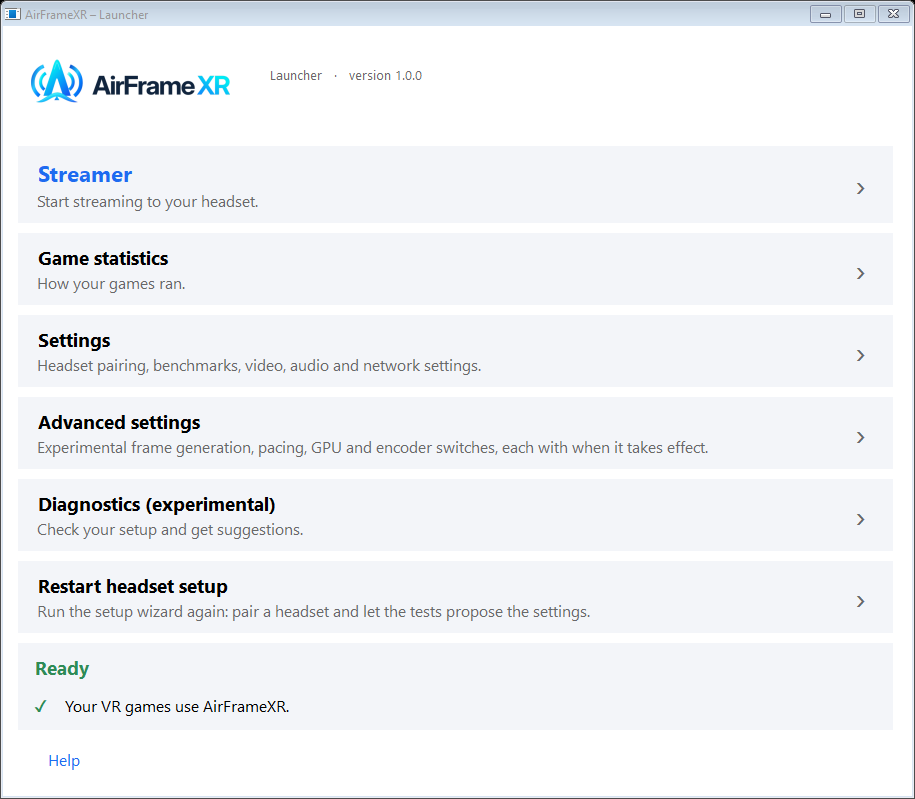
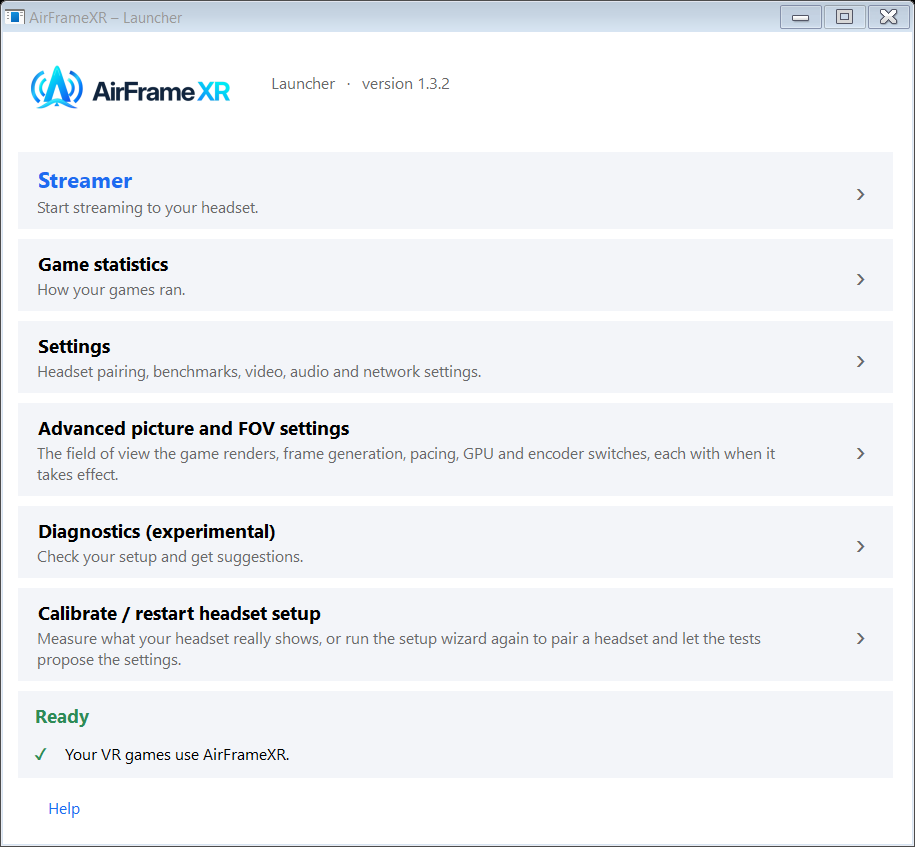
README: the eye calibration wizard with a screenshot of the result (rays, window, rectangle); the result page draws them (FovPlot); launcher picture refreshed; harness case calibrate-result

diff --git a/tools/gui/Calibrate.cs b/tools/gui/Calibrate.cs
@@ -12,12 +12,45 @@ using System.Windows.Forms;
 
 namespace AirFrameXR
 {
+    /// The measurement as a picture, in tangent space with the nose on the left: a grey ray from the centre for every direction, a dot where the square vanished on it, the outline of
+    /// what the headset shows, and the rectangle the games are told.
+    public class FovPlot : Control
+    {
+        readonly FovFitResult r;
+        public FovPlot(FovFitResult result) { r = result; DoubleBuffered = true; BackColor = Color.White; Size = new Size(520, 340); AccessibleName = "Your visible window with the measured rays"; }
+        protected override void OnPaint(PaintEventArgs e)
+        {
+            base.OnPaint(e);
+            var g = e.Graphics; g.SmoothingMode = System.Drawing.Drawing2D.SmoothingMode.AntiAlias;
+            float x0 = Math.Min(-(float)r.Rectangle.Inner, (float)r.Window.Min(p => p.X)), x1 = Math.Max((float)r.Rectangle.Outer, (float)r.Window.Max(p => p.X));
+            float y0 = Math.Min(-(float)r.Rectangle.Lower, (float)r.Window.Min(p => p.Y)), y1 = Math.Max((float)r.Rectangle.Upper, (float)r.Window.Max(p => p.Y));
+            float pad = 0.06f * Math.Max(x1 - x0, y1 - y0); x0 -= pad; x1 += pad; y0 -= pad; y1 += pad;
+            float k = Math.Min((Width - 2) / (x1 - x0), (Height - 2) / (y1 - y0));
+            float ox = (Width - k * (x1 - x0)) / 2, oy = (Height - k * (y1 - y0)) / 2;
+            Func<float, float, PointF> map = (x, y) => new PointF(ox + (x - x0) * k, oy + (y1 - y) * k);
+            var c = map(0, 0);
+            using (var axis = new Pen(Color.Gainsboro)) { g.DrawLine(axis, map(x0, 0), map(x1, 0)); g.DrawLine(axis, map(0, y0), map(0, y1)); }
+            using (var ray = new Pen(Color.Silver, 1f))
+            using (var dot = new SolidBrush(Color.DimGray))
+                foreach (var w in r.Window) { var q = map((float)w.X, (float)w.Y); g.DrawLine(ray, c, q); g.FillEllipse(dot, q.X - 3, q.Y - 3, 6, 6); }
+            using (var outline = new Pen(Color.DimGray, 1.5f)) g.DrawPolygon(outline, r.Window.Select(w => map((float)w.X, (float)w.Y)).ToArray());
+            var a = map(-(float)r.Rectangle.Inner, (float)r.Rectangle.Upper); var b = map((float)r.Rectangle.Outer, -(float)r.Rectangle.Lower);
+            using (var rect = new Pen(Ui.Accent, 2.5f)) g.DrawRectangle(rect, a.X, a.Y, b.X - a.X, b.Y - a.Y);
+            using (var f = new Font(Font.FontFamily, 8.5f))
+            {
+                g.DrawString("nose", f, Brushes.DimGray, 4, c.Y + 2); g.DrawString("outer", f, Brushes.DimGray, Width - 38, c.Y + 2);
+                g.DrawString("up", f, Brushes.DimGray, c.X + 4, 2); g.DrawString("down", f, Brushes.DimGray, c.X + 4, Height - 16);
+            }
+        }
+    }
+
     public class CalibrateForm : DpiForm
     {
         const int Directions = 24, Eyes = 2, StepsPerPass = Directions * Eyes;
         const string Wearer = "my";
         static string Probe => Path.Combine(Paths.Dir, "bench", "xr_probe.exe");
-        static string RunDir => Path.Combine(Paths.Config, "calibration");
+        string RunDir => demoDir ?? Path.Combine(Paths.Config, "calibration");
+        readonly string demoDir;   // the UI harness: synthetic sweeps in a temp folder instead of config\\calibration
 
         readonly AppSettings settings = new AppSettings();
         readonly string headset, headsetSlug;
@@ -29,8 +62,10 @@ namespace AirFrameXR
         Label progressText; ProgressBar bar;
         FovFitResult result;
 
-        public CalibrateForm()
+        public CalibrateForm(string demoFolder = null)
         {
+            demoDir = demoFolder;
+            System.Threading.Thread.CurrentThread.CurrentCulture = CultureInfo.InvariantCulture;   // numbers as in the docs and the other tools
             Text = "AirFrameXR – Calibrate the field of view";
             Icon = Ui.AppIcon();
             AutoScaleDimensions = new SizeF(96F, 96F);
@@ -42,12 +77,32 @@ namespace AirFrameXR
             MinimumSize = new Size(600, 480);
             Ui.FitToWorkArea(this);
             Controls.Add(page);
-            headset = settings.HeadsetName;
+            headset = demoFolder != null ? "Apple Headset" : settings.HeadsetName;
             headsetSlug = FovFit.Slug(headset).Replace('_', '-');
             poll.Tick += (s, e) => Poll();
             FormClosing += (s, e) => StopProbe();
-            ShowIntro();
+            if (demoFolder == null) ShowIntro();
             Ui.ScreenshotWhenShown(this, 1500);
+        }
+
+        /// The UI harness: a made-up window (an ellipse a little wider outward than toward the nose, both passes) and the result page for it.
+        public void ApplyDemoResult()
+        {
+            Directory.CreateDirectory(RunDir);
+            var rnd = new Random(7);
+            var sb = new System.Text.StringBuilder("eye,fit,gaze,theta_deg,ecc_deg,tan_r,x_out,y,timeout,latency_ms,deg_s,display_time_ns\n");
+            foreach (var gz in new[] { "following", "fixed" })
+                for (int eye = 0; eye < 2; eye++)
+                    for (int i = 0; i < Directions; i++)
+                    {
+                        double th = i * 15, a = th * Math.PI / 180;
+                        double reach = Math.Sqrt(1 / (Math.Pow(Math.Cos(a) / (Math.Cos(a) >= 0 ? 0.95 : 0.72), 2) + Math.Pow(Math.Sin(a) / (Math.Sin(a) >= 0 ? 0.74 : 0.66), 2)));
+                        double tan = reach * (gz == "following" ? 0.93 : 1.0) * (1 + 0.03 * (rnd.NextDouble() - 0.5));
+                        double ecc = Math.Atan(tan) * 180 / Math.PI;
+                        sb.AppendLine(string.Format(CultureInfo.InvariantCulture, "{0},demoheadset_1,{1},{2:0.0},{3:0.000},{4:0.00000},{5:0.00000},{6:0.00000},0,50,2.00,0", eye, gz, th, ecc, tan, tan * Math.Cos(a), tan * Math.Sin(a)));
+                    }
+            File.WriteAllText(Path.Combine(RunDir, $"fov_sweep_{Wearer}_{headsetSlug}_run1.csv"), sb.ToString());
+            ShowResult(99);
         }
 
         // ---------------------------------------------------------------------------------------------------------- pages
@@ -190,16 +245,18 @@ namespace AirFrameXR
                 return;
             }
             var t = result.Rectangle;
+            page.Controls.Add(new FovPlot(result) { Margin = new Padding(3, 6, 3, 2) });
+            Text_("Grey: the 24 directions the square travelled, with a dot where it vanished for you; the dark outline is what your headset shows; blue is the field of view the games are told.", true);
             Text_($"Outer {t.Outer:0.00}   Inner {t.Inner:0.00}   Upper {t.Upper:0.00}   Lower {t.Lower:0.00}   (tangents; the angles are {Math.Atan(t.Outer) * 180 / Math.PI:0.#} / {Math.Atan(t.Inner) * 180 / Math.PI:0.#} / {Math.Atan(t.Upper) * 180 / Math.PI:0.#} / {Math.Atan(t.Lower) * 180 / Math.PI:0.#} degrees)");
             Text_($"This rectangle covers {100 * result.Coverage:0.0} % of what you saw, from {result.Runs} run(s). It is {100 * result.SavedVsBox:0.0} % smaller than the box around your whole window, so the game renders that much less.");
             foreach (var w in result.Warnings) { var l = Text_("Note: " + w); l.ForeColor = Color.DarkGoldenrod; }
-            var cov = new ComboBox { DropDownStyle = ComboBoxStyle.DropDownList, Width = 330, Margin = new Padding(3, 8, 3, 3), AccessibleName = "Coverage" };
+            var cov = new ComboBox { DropDownStyle = ComboBoxStyle.DropDownList, Width = 470, Margin = new Padding(3, 8, 3, 3), AccessibleName = "Coverage" };
             cov.Items.AddRange(new object[] { "99 % of my window (recommended: black only in the far corners)", "100 % of my window (no black, a little more to render)", "97 % of my window (fewer pixels, more black in corners)" });
             cov.SelectedIndex = coverage >= 99.5 ? 1 : coverage >= 98.5 ? 0 : 2;
             cov.SelectedIndexChanged += (s, e) => ShowResult(new[] { 99.0, 100.0, 97.0 }[cov.SelectedIndex]);
             page.Controls.Add(cov);
             Text_("Applies at the next game start. If a game shows black at an edge, choose 100 % or run the test again; Advanced picture and FOV settings shows and changes the values.", true);
-            Buttons(Btn("Use this field of view", Apply), Btn("Save a copy...", SaveCopy), Btn("Run another pass of tests", ShowIntro), Btn("Close", Close));
+            Buttons(Btn("Use this field of view", Apply), Btn("Save a copy...", SaveCopy), Btn("Measure again", ShowIntro), Btn("Close", Close));
         }
 
         void Apply()

diff --git a/tools/gui/UiTest.cs b/tools/gui/UiTest.cs
@@ -125,6 +125,7 @@ namespace AirFrameXR
             yield return new Case { Name = "analyze-insufficient", Make = () => new AnalyzeForm(), Prepare = f => ((AnalyzeForm)f).ApplyDemoState("insufficient") };
             yield return new Case { Name = "analyze-problem-tall", Make = () => new AnalyzeForm(), Prepare = f => { ((AnalyzeForm)f).ApplyDemoState("problem"); f.Height = Ui.WorkArea(f).Height - 40; } };   // the README picture: the window as tall as the screen allows, so the table and the charts show together
             yield return new Case { Name = "analyze-long", Make = () => new AnalyzeForm(), Prepare = f => ((AnalyzeForm)f).ApplyDemoState("long") };
+            yield return new Case { Name = "calibrate-result", Make = () => new CalibrateForm(Path.Combine(Path.GetTempPath(), "airframexr_calibrate_demo_" + Guid.NewGuid().ToString("N"))), Prepare = f => ((CalibrateForm)f).ApplyDemoResult() };   // the README picture: the rays, the window, the rectangle
             yield return new Case { Name = "performance", Make = () => new PerformanceForm("Cyberpunk2077.exe") };
             yield return new Case { Name = "performance-pipeline", Make = () => new PerformanceForm("LiesOfP-Win64-Shipping.exe") };   // a record whose pipeline block says split encoding did not engage
             for (int p = 0; p <= 6; p++)

diff --git a/tools/gui/FovFit.cs b/tools/gui/FovFit.cs
@@ -22,6 +22,8 @@ namespace AirFrameXR
     public class FovFitResult
     {
         public Rect Rectangle, Box;
+        /// the visible window: where the dot vanished on each direction, in tangent space (x outward from the nose, y up), in direction order
+        public List<(double X, double Y)> Window = new List<(double X, double Y)>();
         public double Coverage;                 // 0..1, exact share of the window the rectangle covers
         public int Runs, Steps;
         public string Author, Headset, FileName;
@@ -83,6 +85,7 @@ namespace AirFrameXR
             if (!Check(rows, files.Count, r.Warnings, out problem)) return null;
 
             var window = Outline(rows);
+            r.Window = window.Select(w => (w.X, w.Y)).ToList();
             r.Box = BoundingBox(window);
             r.Rectangle = SmallestRect(window, coveragePct / 100);
             r.Coverage = Clipped(window, r.Rectangle) / Area(window);

diff --git a/harness/uibuild.py b/harness/uibuild.py
@@ -6,7 +6,7 @@ sys.path.insert(0, str(Path(__file__).parent))
 import lib
 
 ROOT = lib.ROOT
-SOURCES = "Common.cs PipelineModel.cs Advanced.cs Configure.cs SettingsPanel.cs Reference.cs TestRunner.cs Wizard.cs Profiles.cs Verdict.cs Advice.cs FindHeadset.cs AudioRoute.cs AirFrameXR.cs Launcher.cs Performance.cs UiTest.cs BlackBoxBrand.cs BlackBoxChart.cs BenchRecorder.cs PerfAnalyze.cs PerfCore.cs PerfReport.cs PerfResources.cs"
+SOURCES = "Common.cs PipelineModel.cs Advanced.cs Configure.cs SettingsPanel.cs Reference.cs TestRunner.cs Wizard.cs Profiles.cs Verdict.cs Advice.cs FindHeadset.cs AudioRoute.cs AirFrameXR.cs Launcher.cs Performance.cs FovFit.cs Calibrate.cs UiTest.cs BlackBoxBrand.cs BlackBoxChart.cs BenchRecorder.cs PerfAnalyze.cs PerfCore.cs PerfReport.cs PerfResources.cs"
 
 
 def build(rid):

diff --git a/harness/readme_screens.py b/harness/readme_screens.py
@@ -9,7 +9,7 @@ from pathlib import Path
 ROOT = Path(__file__).resolve().parent.parent
 SHOTS = {   # harness case -> README image (the size the picture is taken at is the second item when it is not 1080p / 125 %)
     "launcher-ready": "ui_launcher", "streamer-clean": "ui_streamer", "performance": "ui_performance", "wizard-page3": "ui_wizard",
-    "suggestions": "ui_suggestions", "firewall-rules": "ui_firewall",
+    "suggestions": "ui_suggestions", "firewall-rules": "ui_firewall", "calibrate-result": "ui_calibrate",
     "rec-recording": "ui_blackbox_recorder",                              # the Black Box (docs/BENCH_UI.md)
     "analyze-problem-tall": ("ui_blackbox_analyzer", "2560x1440@100"),    # as tall as the screen allows: the resource table and the charts together
 }

diff --git a/README.md b/README.md
@@ -41,7 +41,7 @@ AirFrameXR is built for people with a wireless headset and an NVIDIA GPU who wan
 - **One runtime, minimal copies.** Composition, frame pacing and encoding run in one pipeline that passes frames in shared GPU memory, with no extra copies between programs.
 - **A proven network layer.** [ALVR](https://github.com/alvr-org/ALVR) provides the networking, encoding and decoding that a large community has stabilised, and the headset only needs the ALVR app. **Meta Quest** and **Apple Vision Pro** are the tested headsets.
 - **Made for NVIDIA.** NVENC HEVC 10-bit encoding, and **split encoding** that uses all of the GPU's NVENC units instead of one (the RTX 5090 has three), tuned with the pacing and the network.
-- **The game renders only what you see.** Built-in field-of-view restriction and calibration tell the game the field of view the headset actually shows: about 30 % fewer pixels rendered on the Vision Pro profile (computed from the field of view, not yet a measured frame-time gain). See [How FOV restriction works](#how-fov-restriction-works).
+- **The game renders only what you see.** Built-in field-of-view restriction and your own eye calibration tell the game the field of view the headset actually shows: about 30 % fewer pixels rendered on the Vision Pro profile (computed from the field of view, not yet a measured frame-time gain). See [How FOV restriction works](#how-fov-restriction-works).
 - **Frame generation in the pipeline.** Optional GPU optical-flow interpolation with an edge-aware synthesis (the edge technique comes from [VectorXR](https://github.com/DienerTech/vectorxr), re-implemented) can improve displayed smoothness when a game cannot sustain the headset's refresh rate. It is experimental, off by default and **can add interpolation latency**; it is not a free FPS boost.
 - **Measure per game.** Game statistics record fps, latency, network and GPU for each game you play.
 - **Less guesswork.** The setup wizard reads what your headset supports, offers a community profile (shareable as a JSON file) and tests the result on your PC and network.
@@ -118,7 +118,7 @@ Regenerate them with `python3 harness/readme_screens.py`.
 
 **One front door.** Double-click `AirFrameXR.exe`: a card per tool, the OpenXR runtime switch (it switches back, too), and reviews of the OpenXR layers and the firewall rules.
 
-<p align="center"><img src="docs/images/ui_launcher.png" width="520" alt="The launcher: Streamer, Logs and performance, Diagnose, Setup wizard, and the OpenXR runtime row"></p>
+<p align="center"><img src="docs/images/ui_launcher.png" width="520" alt="The launcher: Streamer, Game statistics, Settings, Advanced picture and FOV settings, Diagnostics, Calibrate / restart headset setup, and the status card"></p>
 
 **The streamer.** Live numbers as tiles (the game's fps, what is streamed, what the headset shows, bitrate, latency split, loss), display settings, frame generation with its rate, Recenter, and the optional desktop mirror.
 
@@ -135,6 +135,12 @@ Regenerate them with `python3 harness/readme_screens.py`.
 **Setup, once.** The wizard reads what the headset supports, offers a community profile, a pre-filled manual setup or your existing ALVR settings, then tests the result.
 
 <p align="center"><img src="docs/images/ui_wizard.png" width="640" alt="The setup wizard: choose a setup"></p>
+
+**Calibrate your own field of view.** *Calibrate / restart headset setup* offers the **Eye calibration wizard (30 min)**: a small square drifts outward along one of 24 directions per eye and you click when it is gone, once with your eyes following it and once with them fixed. The result shows every ray, the point where it vanished for you, the outline of what your headset shows (dark) and the field of view the games get (blue), the smallest rectangle that covers 99 % of it. **Use this field of view** applies it from the next game start; **Save a copy...** writes a profile file you can share and import with *Advanced picture and FOV settings* > *Import a calibration file...* ([docs/FOV_CALIBRATION.md](docs/FOV_CALIBRATION.md)).
+
+<p align="center"><img src="docs/images/ui_calibrate.png" width="640" alt="The eye calibration result: 24 grey rays from the centre with a dot where the square vanished on each, the dark outline of the visible window and the blue rectangle the games are told"></p>
+
+*The picture shows made-up demo data from the UI harness (an invented window, not a person's measurement). The calibration itself has not been run on a headset yet.*
 
 **Firewall rules.** Finds the rule for this folder's exact `alvr_host.exe`, offers one only if none is in place, and lists the leftovers Windows keeps (stale, duplicate, blocking) with one click to remove them.
 
@@ -207,8 +213,8 @@ the same code built with the telemetry on, so a diagnosis never changes the numb
   A **Recommended** tick sets the rate from the game's recorded runs on the connected headset, and **Recenter** (a button and a key, **End** by default; also sent at every game start) turns the tracking space to your
   current forward. See [docs/FRAME_GENERATION.md](docs/FRAME_GENERATION.md), [docs/FRAME_GENERATION_UNCAPPED.md](docs/FRAME_GENERATION_UNCAPPED.md), and
   [docs/PERMANENT_RECORD.md](docs/PERMANENT_RECORD.md) (archive) for why DLSS motion vectors were tried and removed.
-- **A field of view for the game, set from the streamer**, and a render quality slider: [how it works](#how-fov-restriction-works).
-- **The windows** (above): one launcher, the streamer, Logs and performance, Diagnose with suggestions, the wizard, the firewall and OpenXR-layer reviews. They follow the display
+- **A field of view for the game, set from the streamer**, a render quality slider, and an **eye calibration wizard** that measures your own visible window and fills the field of view for you: [how it works](#how-fov-restriction-works).
+- **The windows** (above): one launcher, the streamer, Logs and performance, Diagnose with suggestions, the wizard, the eye calibration, the firewall and OpenXR-layer reviews. They follow the display
   (1080p laptops to 4K, 100-200 % scale), checked by the UI harness below.
 - **Desktop mirror** (optional): see above; it works with either hand.
 - **Advanced picture and FOV settings**: the switches that change the picture the game renders and the timing, for people who measure. Each one says when it takes effect and what we
@@ -298,6 +304,8 @@ The game's picture is filtered down to the stream's pixels by composition, so th
 carries. The cost is the game's GPU time and video memory, roughly linear in pixels for a GPU-bound game; 100 % costs what the game cost with no restriction. About 2 samples per pixel
 is already near where supersampling stops paying much, so there is no reason to go higher. Which position is right depends on how much headroom the game has: raise it while the game
 holds its frame rate. Off by default (0 %), and with no restriction nothing differs from 1.0.
+
+**Calibrate it yourself.** Launcher > *Calibrate / restart headset setup* > *Eye calibration wizard (30 min)* measures your own window instead of using the profile's (two passes, 48 clicks each, the headset on, the streamer open) and applies the smallest rectangle that covers 99 % of it, or 100 % or 97 % if you choose; the maths and the file format are in [docs/FOV_CALIBRATION.md](docs/FOV_CALIBRATION.md) and [docs/HMD_PROFILES.md](docs/HMD_PROFILES.md). It is new in 1.3.2 and has been checked on the PC only, not yet on a headset.
 
 **What is not known yet.** The visible window is one person's left eye at one fit of the headset; it moves with the seal, glasses inserts and IPD, so start from the recommended row
 (visible + 3 degrees) and check the corners for black with `fovgrid.exe` ([docs/FOV_GRID.md](docs/FOV_GRID.md)). The Vision Pro profile carries the measured window and the suggested render quality (25 %), and the Advanced window offers them with one button, never by itself ([docs/HMD_PROFILES.md](docs/HMD_PROFILES.md)). The feature is covered by lab scenarios (the app gets exactly the tangents

diff --git a/docs/progress.md b/docs/progress.md
@@ -35,7 +35,7 @@ Legend: **source-verified** (read only) | **built** (compiles) | **tested-pass**
 
 - Black Box 1.3.1 (2026-10-31): first real recording (5090, ACBlackFlag, frame generation) fixed the report (attribution under frame generation, the limiter reading, engine sums), added the resource table in bottleneck order, a time series per category, the `blackbox\` layout with `blackbox_perf.exe` and a reversible OpenXR runtime switch. **tested-pass** in the lab (13 report fixtures, probe, recorder file handling, GUI matrix 405 renders 0 FAIL). **Not tested**: the runtime switch's permission prompt on a machine, F8 in real games, the beep, the Deep trace, a recording through the new panel.
 
-- Own field-of-view calibration (2026-11-02, uncommitted): launcher card **Calibrate / restart headset setup** with a choice step, **Eye calibration wizard (30 min)** (`calibrate.exe`) or **Setup wizard**, the shared fit `tools/gui/FovFit.cs`, the bundle's console `fov_profile.exe`, calibration-only profiles (no `stream`/`network`, skipped by the wizard's matching) and **Import a calibration file...** in the Advanced window. **built** (`tools/wsl/check_gui.sh`: calibrate.exe and fov_profile.exe compile). **tested-pass** on the PC: `FovFit` on the two Kevin sweeps gives 1.00 / 0.89 / 0.92 / 0.82 (the Python script: 1.00 / 0.89 / 0.91 / 0.82), and `HmdProfiles.Parse` reads its output as a stream-less profile with the same tangents. **Not tested**: the calibrate window itself (probe launch, CSV polling, pass 2, apply), the Advanced import button, the wizard import, the launcher card, packaging (`build.ps1 gui package`), any headset. Found and fixed on the way: the shipped `profiles/apple-vision-pro.profile.json` had its `variants` inside `fov` and no `network`, so `HmdProfiles.Parse` skipped it and the Vision Pro profile never loaded; moved into `network` (**tested-pass**: the shipped file now parses as a stream profile, and `fov_profile_check.py` first check passes). **Not tested**: what the wizard now proposes with it on a Vision Pro (its stream settings and 22 ALVR overrides now apply).
+- Own field-of-view calibration (2026-11-02, uncommitted): launcher card **Calibrate / restart headset setup** with a choice step, **Eye calibration wizard (30 min)** (`calibrate.exe`) or **Setup wizard**, the shared fit `tools/gui/FovFit.cs`, the bundle's console `fov_profile.exe`, calibration-only profiles (no `stream`/`network`, skipped by the wizard's matching) and **Import a calibration file...** in the Advanced window. **built** (`tools/wsl/check_gui.sh`: calibrate.exe and fov_profile.exe compile). **tested-pass** on the PC: `FovFit` on the two Kevin sweeps gives 1.00 / 0.89 / 0.92 / 0.82 (the Python script: 1.00 / 0.89 / 0.91 / 0.82), and `HmdProfiles.Parse` reads its output as a stream-less profile with the same tangents. The result page draws the rays, the window and the rectangle (`FovPlot`); its README picture (`docs/images/ui_calibrate.png`, demo data) is rendered by the UI harness (`calibrate-result`, 0 FAIL). **Not tested**: the calibrate window's run pages (probe launch, CSV polling, pass 2, apply), the Advanced import button, the wizard import, the launcher card, packaging (`build.ps1 gui package`), any headset. Found and fixed on the way: the shipped `profiles/apple-vision-pro.profile.json` had its `variants` inside `fov` and no `network`, so `HmdProfiles.Parse` skipped it and the Vision Pro profile never loaded; moved into `network` (**tested-pass**: the shipped file now parses as a stream profile, and `fov_profile_check.py` first check passes). **Not tested**: what the wizard now proposes with it on a Vision Pro (its stream settings and 22 ALVR overrides now apply).
 
 ## Known open
 
